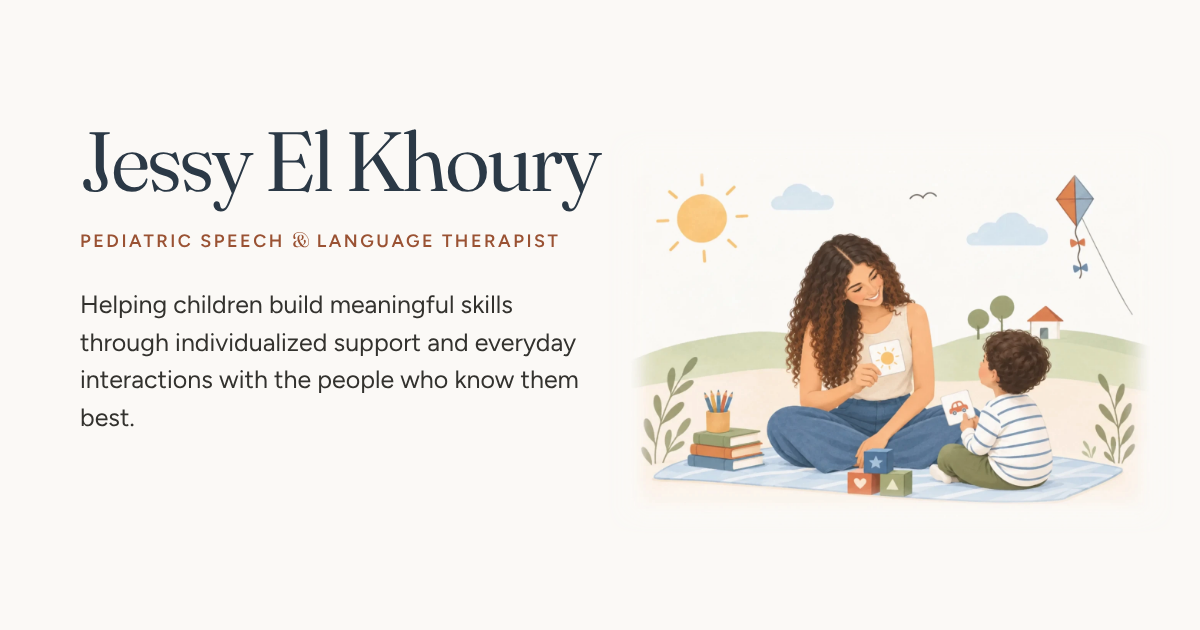
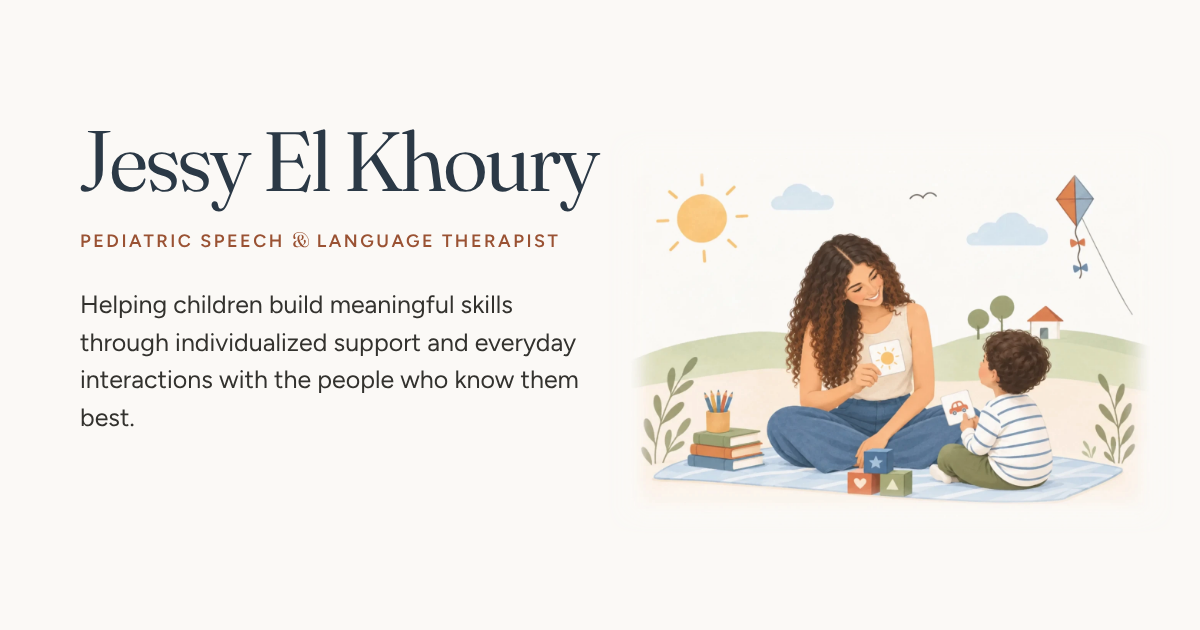
Plainer J and f in headings, smaller About Me drawings, two new drawings
- Headings keep Fraunces but take the capital J and lowercase f from
  Newsreader (a tiny 2.5 KB subset merged into the family with
  unicode-range): the J now sits on the line and the f no longer curls.
  The link-sharing image uses the same letters.
- The drawings beside the About Me sections (and on the homepage About
  Me teaser) are about a quarter smaller, as is the closing heart; the
  painted picture is unchanged.
- New drawings for the two the client didn't like: Working Together is
  now two mugs whose steam meets in a heart, and the homepage About Me
  teaser shows an open picture book with speech bubbles (dots, a heart,
  a star) rising from it instead of the watering can and plant.
- The CMS list of section drawings no longer offers ones that were
  removed.

Claude-Session: https://claude.ai/code/session_01K6ajnfjFq2mRWVZaHpA7oL

Changed region(s): [[0.0617, 0.2111, 0.4933, 0.3317], [0.0617, 0.2111, 0.0925, 0.2413]]

diff --git a/src/_includes/css/main.css b/src/_includes/css/main.css
@@ -3,12 +3,24 @@
    illustrations and accents; the "-text" tones are slightly deeper versions of
    the same colours that meet WCAG AA contrast for text. */
 
+/* Fraunces for the headings, except its J (which dips below the line) and its curly f:
+   those two letters come from Newsreader, a matching serif with plainer forms. The faces
+   share one family name and must keep identical descriptors so browsers combine them. */
 @font-face {
   font-family: "Fraunces";
   src: url("/assets/fonts/fraunces.woff2") format("woff2");
   font-weight: 300 700;
   font-style: normal;
   font-display: swap;
+  unicode-range: U+0-49, U+4B-65, U+67-10FFFF;
+}
+@font-face {
+  font-family: "Fraunces";
+  src: url("/assets/fonts/newsreader-jf.woff2") format("woff2");
+  font-weight: 300 700;
+  font-style: normal;
+  font-display: swap;
+  unicode-range: U+4A, U+66;
 }
 @font-face {
   font-family: "Fraunces";
@@ -16,6 +28,15 @@
   font-weight: 300 700;
   font-style: italic;
   font-display: swap;
+  unicode-range: U+0-49, U+4B-65, U+67-10FFFF;
+}
+@font-face {
+  font-family: "Fraunces";
+  src: url("/assets/fonts/newsreader-jf-italic.woff2") format("woff2");
+  font-weight: 300 700;
+  font-style: italic;
+  font-display: swap;
+  unicode-range: U+4A, U+66;
 }
 @font-face {
   font-family: "Figtree";
@@ -1585,14 +1606,14 @@ a:focus-visible .mark {
 
 /* Small illustration under a section heading, beside long text. */
 .aside-art {
-  width: min(100%, 17rem);
+  width: min(100%, 13rem);
   height: auto;
   margin-top: clamp(1.5rem, 4vw, 2.5rem);
 }
 
 @media (max-width: 55.99em) {
   .aside-art {
-    width: 11rem;
+    width: 8.5rem;
     margin-top: 1rem;
   }
 }
@@ -1644,8 +1665,8 @@ a:focus-visible .mark {
 }
 
 .statement__icon {
-  width: 3.25rem;
-  height: 3.25rem;
+  width: 2.75rem;
+  height: 2.75rem;
   margin: -0.5rem 0 0.75rem -0.5rem;
 }
 

diff --git a/README.md b/README.md
@@ -192,9 +192,11 @@ For anyone editing the site later:
   `#C97B5A`, off-white `#FBF9F6`, near-black `#33322E`, ink navy `#2B3946`, moss
   `#8A9878`). These colours are used for the illustrations and backgrounds. Text uses
   slightly deeper tones of the same colours so that all text meets WCAG AA contrast.
-- **Type:** Fraunces for headings, Figtree for body text. Both are self-hosted and
-  subset (about 95 KB in total) under the SIL Open Font License; licences are in
-  `src/assets/fonts/`.
+- **Type:** Fraunces for headings, Figtree for body text. At the client's request the
+  headings' capital J and lowercase f come from Newsreader (plainer forms: Fraunces's J
+  dips below the line and its f curls), merged into the same font family by
+  `unicode-range`. All are self-hosted and subset (about 100 KB in total) under the SIL
+  Open Font License; licences are in `src/assets/fonts/`.
 - **Illustrations:** hand-drawn storybook style (ink lines with soft palette fills),
   drawn as SVG for this site, so they stay sharp and light. Scenes show parent and
   child play, picture cards, blocks, books, a kite and rolling hills. Large scenes
